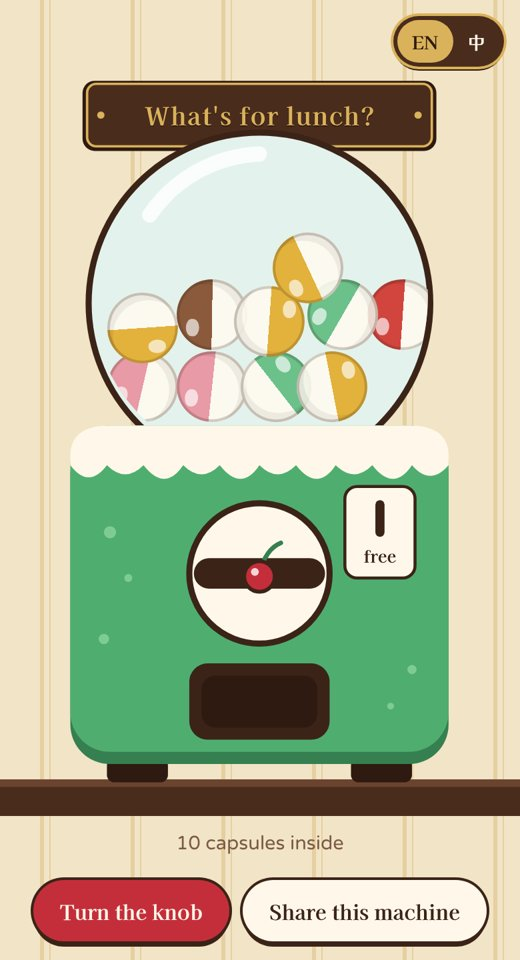
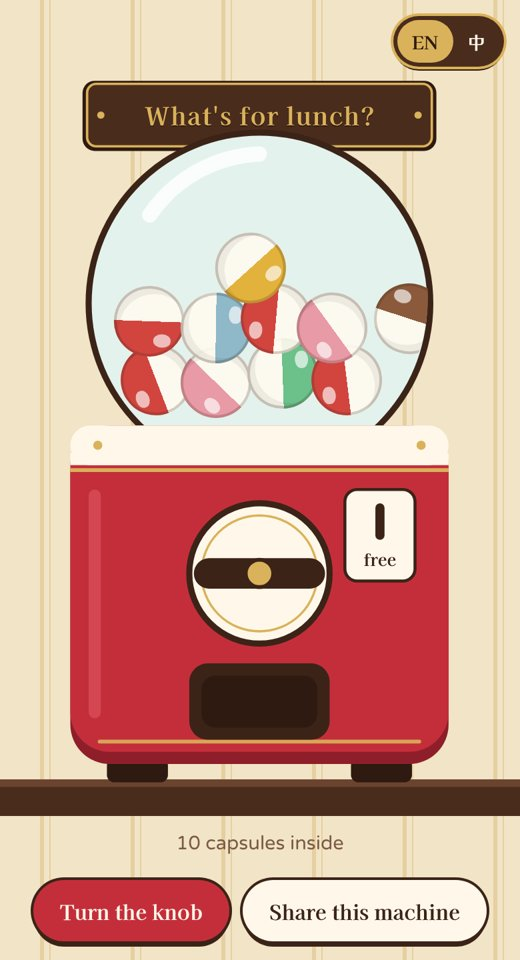
Red retro machine

Changed region(s): [[0.1231, 0.4375, 0.8615, 0.8125], [0.1846, 0.2188, 0.8308, 0.4375]]

diff --git a/index.html b/index.html
@@ -18,7 +18,7 @@
   --wall: #F2E4C6; --stripe: #E6CFA0;
   --wood: #4A2C1D; --wood-dark: #2E1A10; --gold: #D9B25B;
   --ink: #3B2318; --ink-soft: #7A5A45; --paper: #FFF8EA;
-  --melon: #4FAE6F; --melon-dark: #367F50; --cherry: #C42E3A; --glass: #E3F2EC;
+  --cherry: #C42E3A; --glass: #E3F2EC;
   --deco: "Kaisei Decol", "Hiragino Mincho ProN", "Songti TC", "PMingLiU", serif;
   --ui: "Varela Round", "PingFang HK", "PingFang TC", "Microsoft JhengHei", "Noto Sans HK", system-ui, sans-serif;
 }
@@ -44,7 +44,7 @@ button { cursor: pointer; }
   .app { grid-template-columns: minmax(0, 1fr) 330px; align-items: start; padding-top: 64px; }
 }
 
-/* ---------------- the machine (a cream soda on the counter) ---------------- */
+/* ---------------- the machine (red, retro, on the counter) ---------------- */
 .machine-wrap { width: min(360px, 88vw); }
 .machine { position: relative; width: 100%; aspect-ratio: 300 / 486; user-select: none; }
 .machine svg { position: absolute; inset: 0; width: 100%; height: 100%; overflow: visible; }
@@ -178,26 +178,27 @@ button { cursor: pointer; }
         <!-- dome -->
         <circle cx="150" cy="150" r="114" fill="#3B2318"/>
         <circle cx="150" cy="150" r="110" fill="#E3F2EC"/>
-        <!-- body: melon soda -->
-        <rect x="26" y="236" width="248" height="216" rx="26" fill="#367F50"/>
-        <rect x="26" y="230" width="248" height="214" rx="26" fill="#4FAE6F"/>
-        <!-- vanilla ice cream rim -->
-        <path d="M26 256 V250 Q26 230 52 230 H248 Q274 230 274 250 V256
-                 q-12 14 -24 0 q-12 18 -26 0 q-12 12 -24 0 q-12 18 -26 0 q-12 12 -24 0 q-12 18 -26 0 q-12 12 -24 0 q-12 18 -26 0 q-12 12 -24 0 q-12 16 -24 0 Z" fill="#FFF8EA"/>
-        <!-- soda bubbles -->
-        <circle cx="52" cy="300" r="4" fill="#7FCB95"/><circle cx="64" cy="330" r="2.6" fill="#7FCB95"/><circle cx="48" cy="370" r="3.4" fill="#7FCB95"/>
-        <circle cx="250" cy="390" r="3" fill="#7FCB95"/><circle cx="236" cy="414" r="2.2" fill="#7FCB95"/>
+        <!-- body: red retro machine -->
+        <rect x="26" y="236" width="248" height="216" rx="26" fill="#8E1F2A"/>
+        <rect x="26" y="230" width="248" height="214" rx="26" fill="#C42E3A"/>
+        <!-- cream band with gold pinstripes and rivets -->
+        <rect x="26" y="230" width="248" height="26" rx="13" fill="#FFF8EA"/>
+        <rect x="26" y="248" width="248" height="8" fill="#FFF8EA"/>
+        <rect x="26" y="258" width="248" height="2.5" fill="#D9B25B"/>
+        <rect x="44" y="436" width="212" height="2.5" rx="1.2" fill="#D9B25B" opacity=".9"/>
+        <circle cx="44" cy="243" r="3" fill="#D9B25B"/><circle cx="256" cy="243" r="3" fill="#D9B25B"/>
+        <!-- side shine -->
+        <rect x="38" y="272" width="8" height="150" rx="4" fill="#E25B66" opacity=".55"/>
         <!-- coin plate -->
-        <rect x="206" y="270" width="46" height="60" rx="8" fill="#FFF8EA" stroke="#3B2318" stroke-width="2"/>
-        <rect x="226" y="279" width="6" height="24" rx="3" fill="#3B2318"/>
-        <text id="coinText" x="229" y="320" text-anchor="middle" font-family="Kaisei Decol, serif" font-weight="700" font-size="11" fill="#3B2318">free</text>
-        <!-- knob with a cherry on top -->
+        <rect x="206" y="272" width="46" height="60" rx="8" fill="#FFF8EA" stroke="#3B2318" stroke-width="2"/>
+        <rect x="226" y="281" width="6" height="24" rx="3" fill="#3B2318"/>
+        <text id="coinText" x="229" y="322" text-anchor="middle" font-family="Kaisei Decol, serif" font-weight="700" font-size="11" fill="#3B2318">free</text>
+        <!-- knob -->
         <g id="knob">
           <circle cx="150" cy="327" r="46" fill="#FFF8EA" stroke="#3B2318" stroke-width="4"/>
+          <circle cx="150" cy="327" r="38" fill="none" stroke="#D9B25B" stroke-width="1.5"/>
           <rect x="107" y="317" width="86" height="20" rx="10" fill="#3B2318"/>
-          <path d="M150 327 q4 -16 14 -20" stroke="#367F50" stroke-width="3" fill="none" stroke-linecap="round"/>
-          <circle cx="150" cy="329" r="10" fill="#C42E3A" stroke="#3B2318" stroke-width="2.5"/>
-          <circle cx="147" cy="326" r="2.6" fill="#fff" opacity=".8"/>
+          <circle cx="150" cy="327" r="9" fill="#D9B25B" stroke="#3B2318" stroke-width="2.5"/>
         </g>
         <!-- chute -->
         <rect x="104" y="386" width="92" height="50" rx="12" fill="#3B2318"/>
